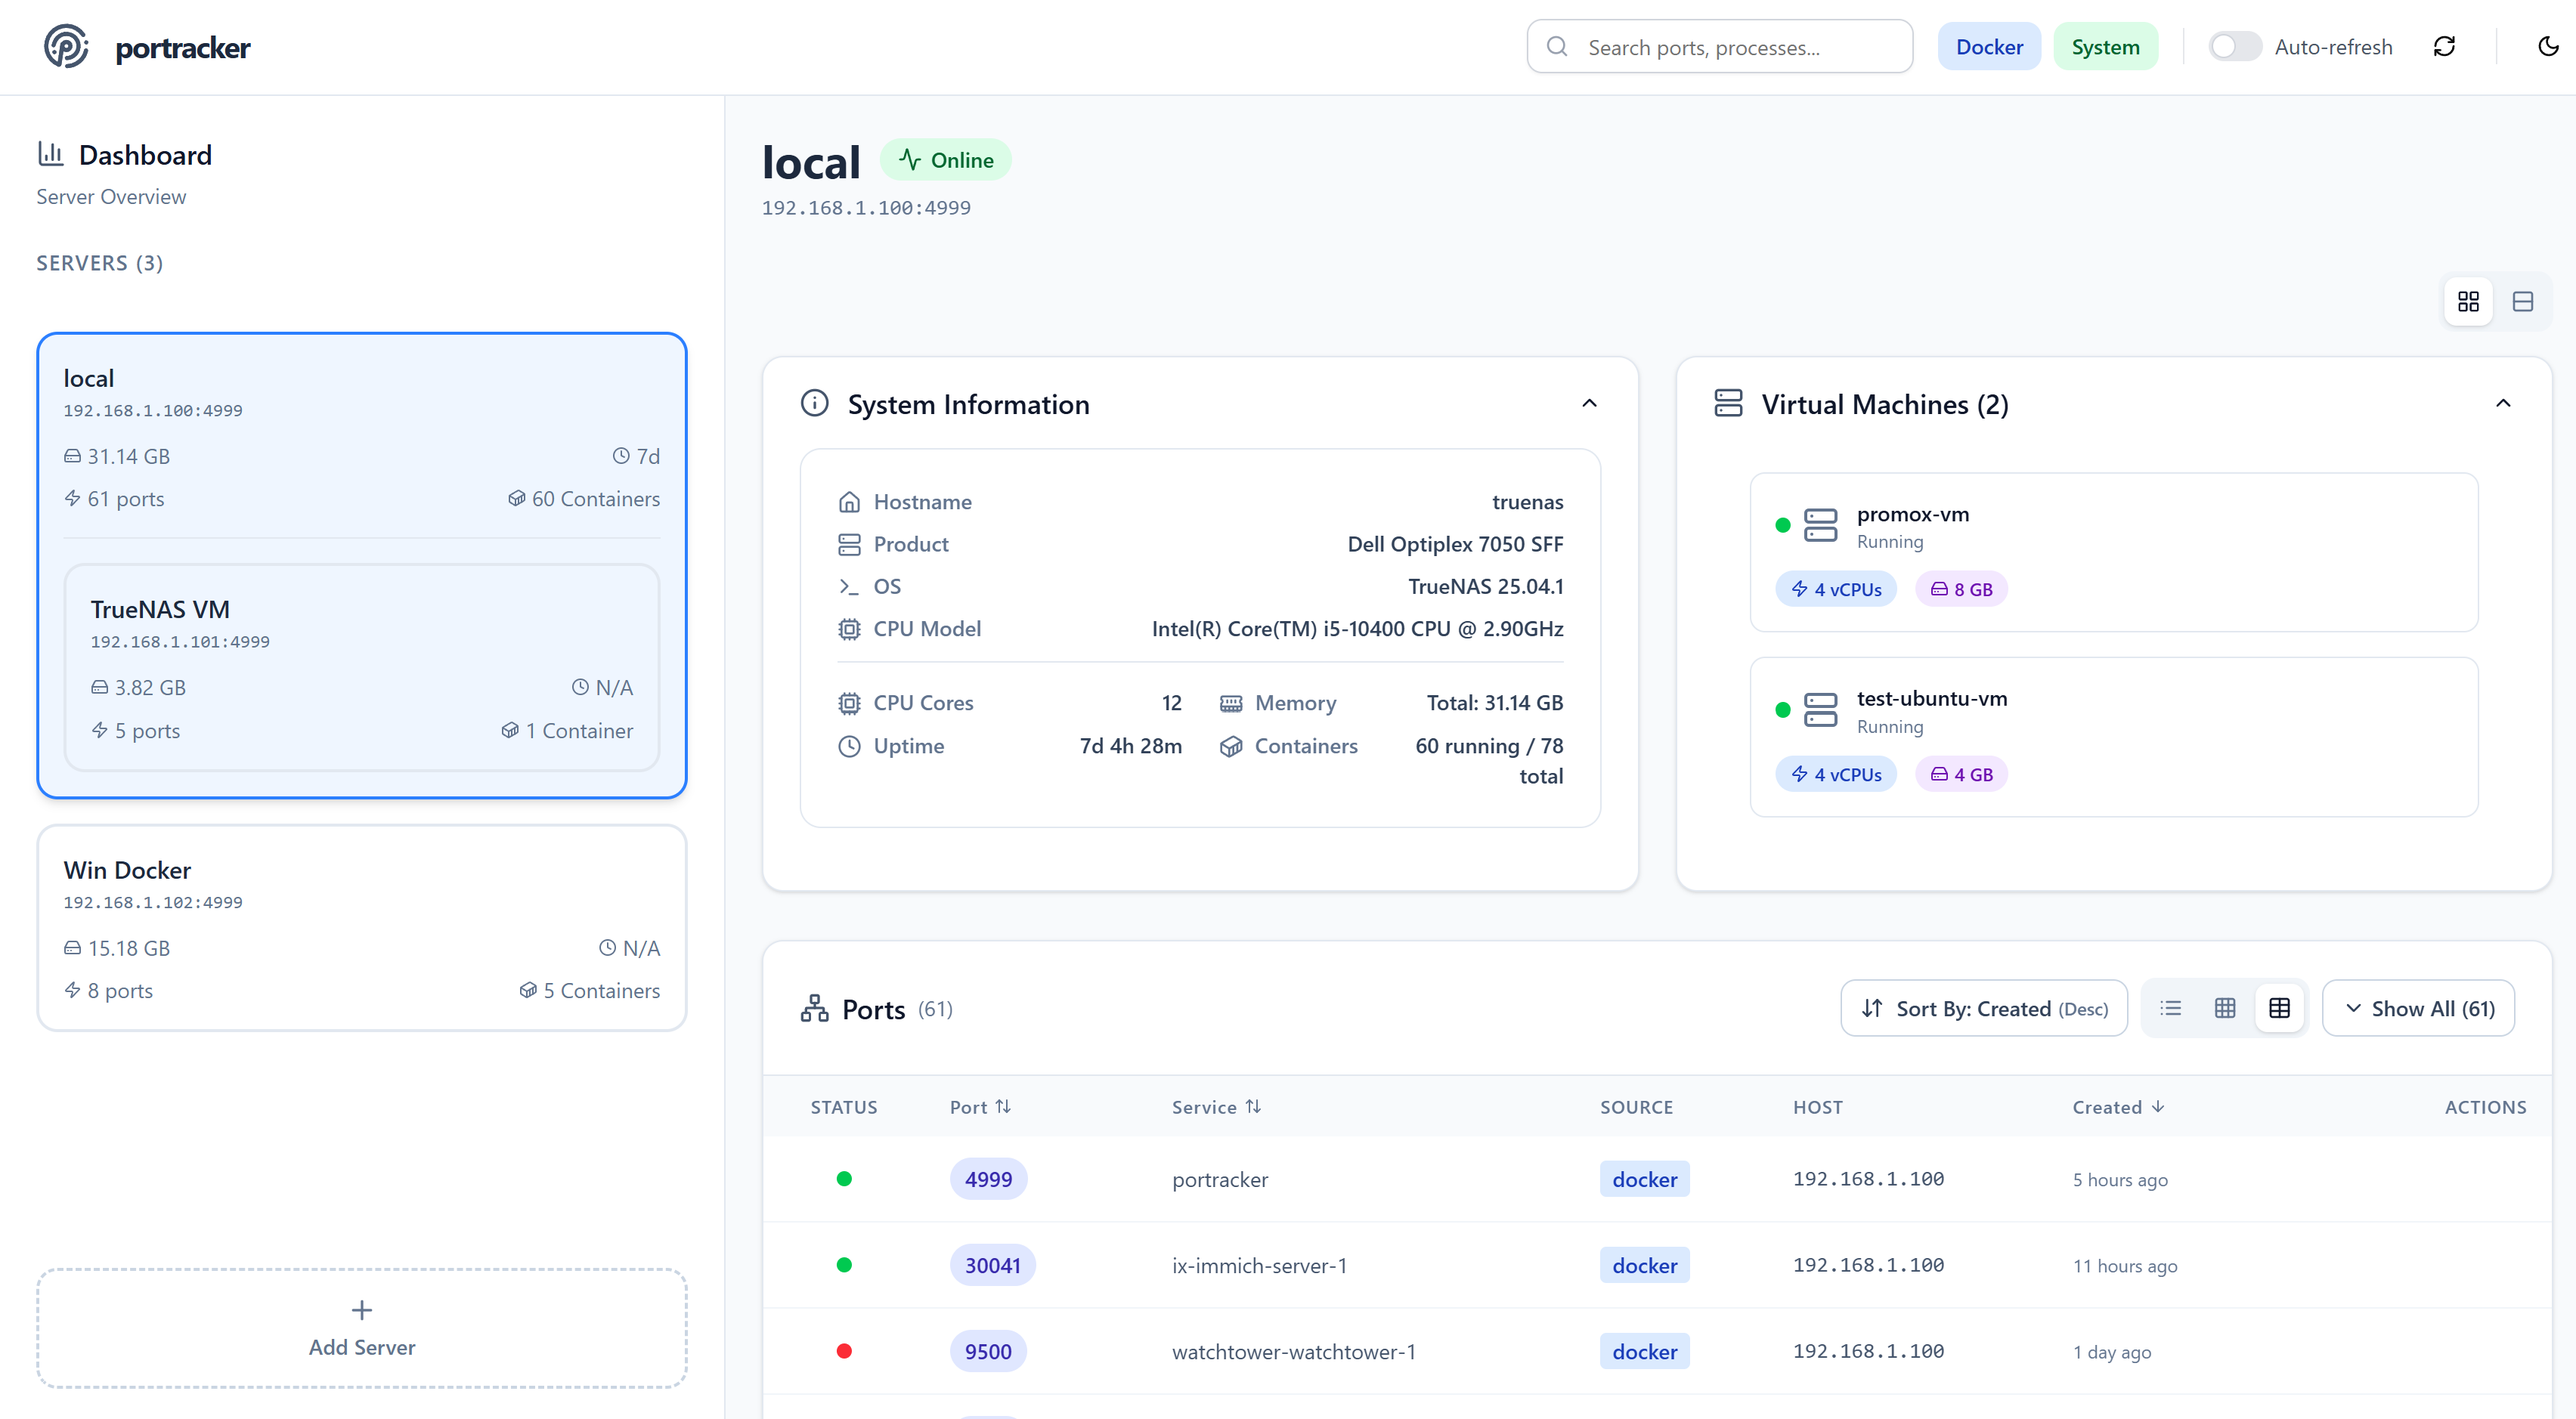
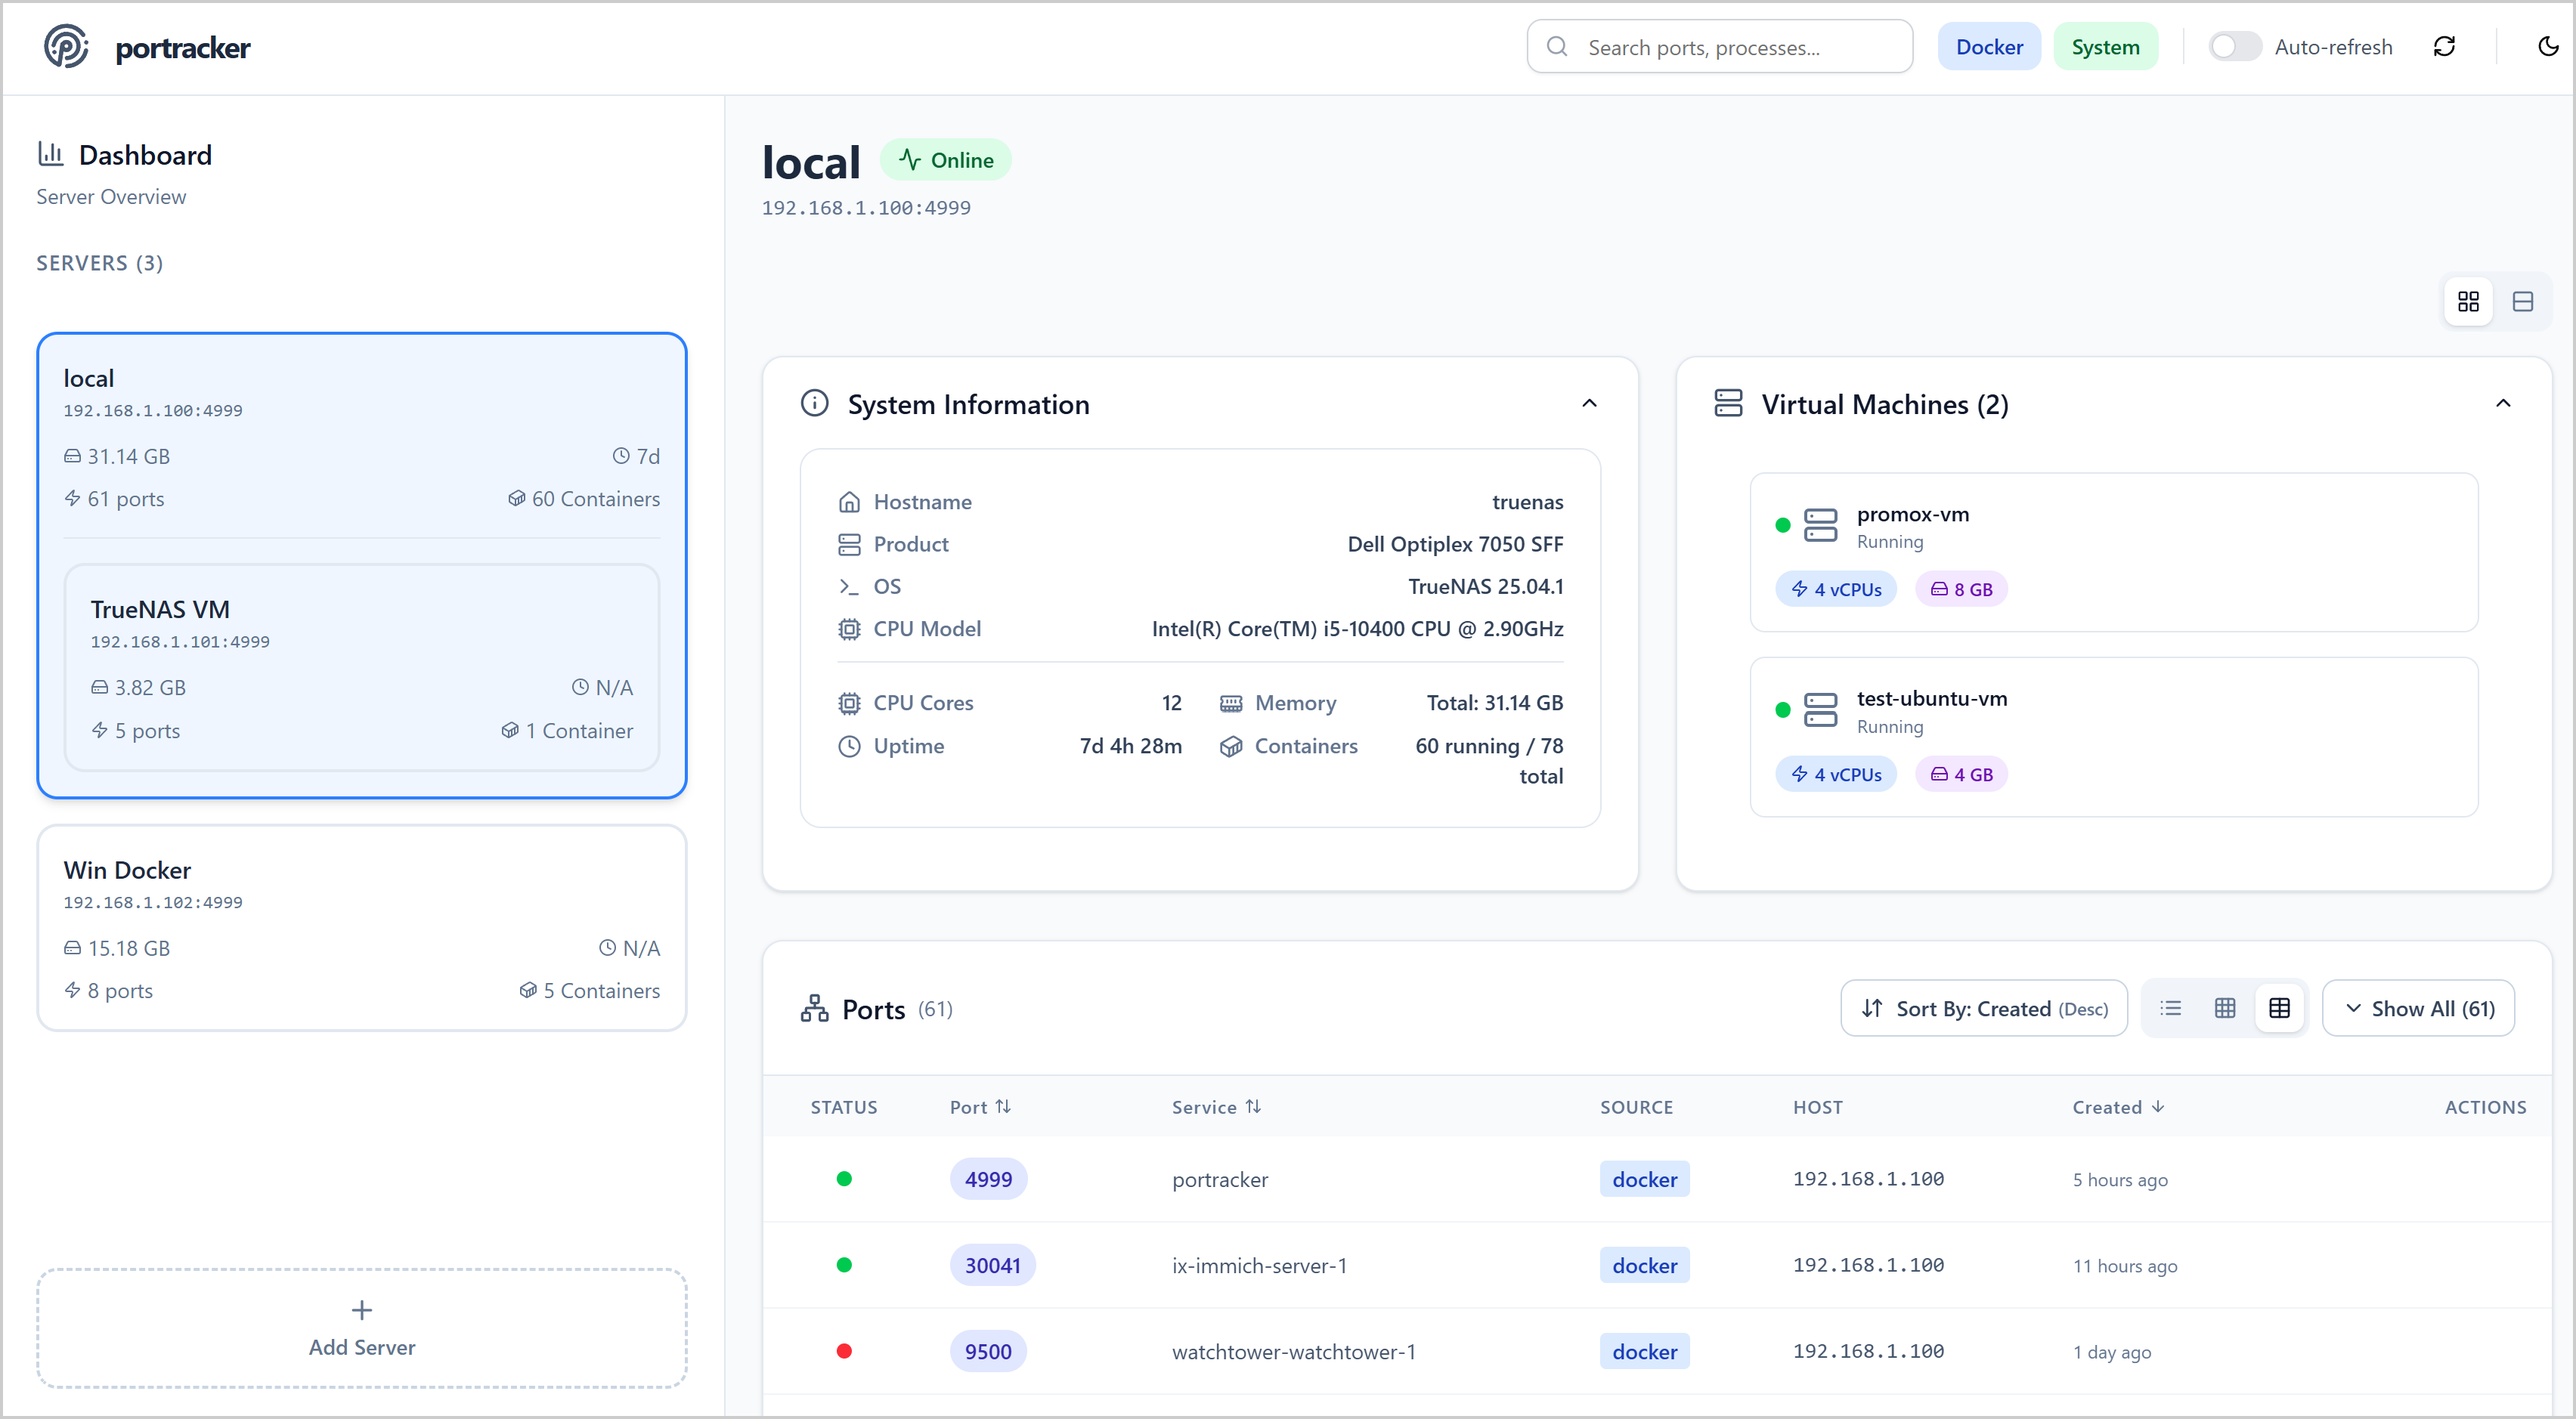
Update screenshot

Changed region(s): [[0.0, 0.0, 1.0, 1.0], [0.0, 0.0, 0.0311, 0.0309]]

diff --git a/README.md b/README.md
@@ -15,7 +15,7 @@
 </p>
 
 <p align="center">
-  <img src="screenshots\main-light.png" alt="portracker Dashboard Screenshot" style="width: 80%; border-radius: 8px; box-shadow: 0 4px 12px rgba(0,0,0,0.3);" />
+  <img src="screenshots\main-light.png" alt="portracker Dashboard Screenshot" style="width: 90%;" />
 </p>
 
 By auto-discovering services on your systems, portracker provides a live, accurate map of your network. It helps eliminate manual tracking in spreadsheets and prevents deployment failures caused by port conflicts.
